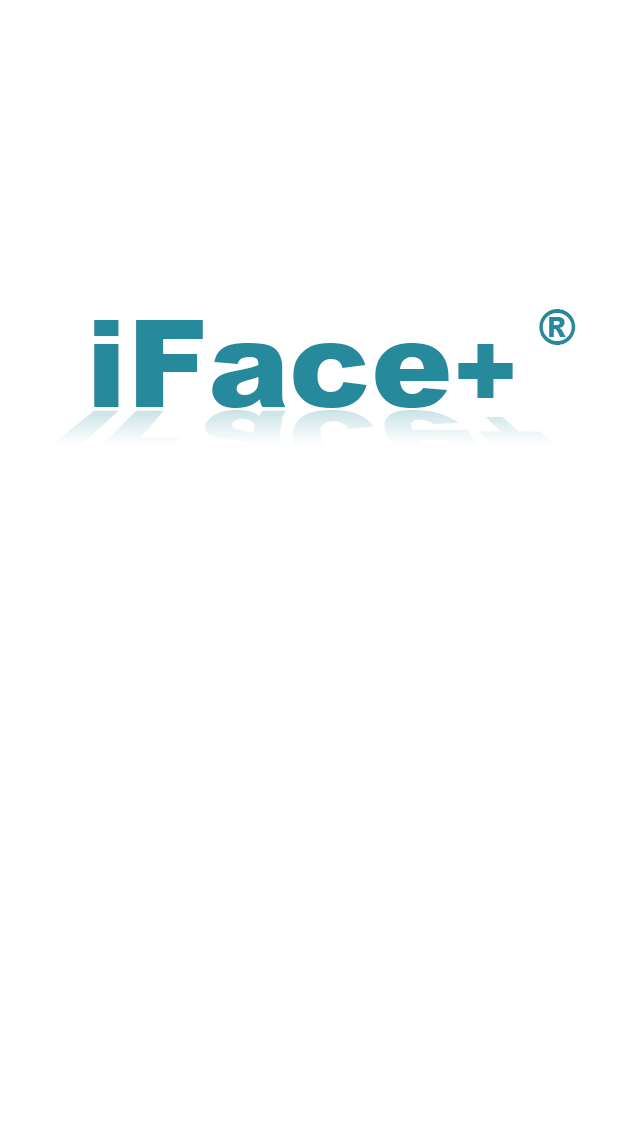
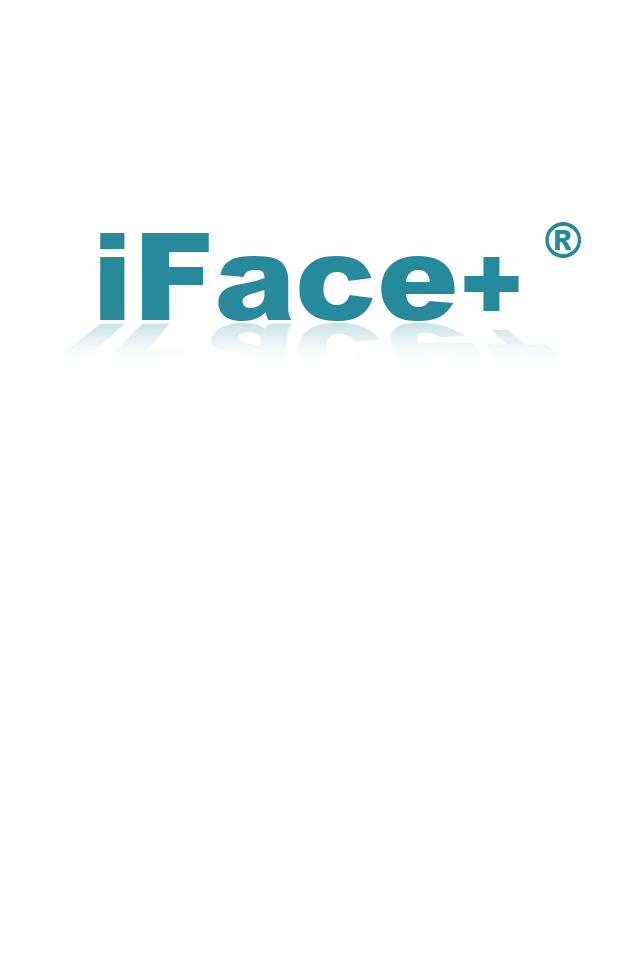
new

Changed region(s): [[0.125, 0.2188, 0.8125, 0.375], [0.8438, 0.2188, 0.9062, 0.3125]]

diff --git a/iFc/Pages/Edit/FSEditorViewController.m b/iFc/Pages/Edit/FSEditorViewController.m
@@ -222,10 +222,10 @@ static const NSTimeInterval kAnimationIntervalTransform = 0.2;
         [interstitial_ loadRequest:request];
         // 请求测试广告。填入模拟器
         // 以及接收测试广告的任何设备的标识符。
-        request.testDevices = [NSArray arrayWithObjects:
-                               @"2DEA15FF-9698-505D-931C-68E2B9A3CEFF",
-                               @"f2751b6ab2923ef5171dfb289dc50c9678520ecd",
-                               nil];
+//        request.testDevices = [NSArray arrayWithObjects:
+//                               @"2DEA15FF-9698-505D-931C-68E2B9A3CEFF",
+//                               @"f2751b6ab2923ef5171dfb289dc50c9678520ecd",
+//                               nil];
     }
 
 
@@ -495,7 +495,7 @@ static const NSTimeInterval kAnimationIntervalTransform = 0.2;
     if(userImageView.image){
         NSArray *excludedActivityTypes = @[UIActivityTypePostToVimeo,UIActivityTypeMessage];
 //        NSString *str = [NSString stringWithFormat:@"%@ http://itunes.apple.com/app/iface+/id904153091?mt=8",NSLocalizedString(@"iFace+ make your life more colorful", nil)];
-        NSString *str = [NSString stringWithFormat:@"%@ http://itunes.apple.com/app/iface+/id904153091?mt=8",NSLocalizedString(@"iFace+ make your life more colorful", nil)];
+        NSString *str = [NSString stringWithFormat:@"%@ https://itunes.apple.com/us/app/iface-place-your-face/id904153091?mt=8",NSLocalizedString(@"iFace make your life more colorful", nil)];
         
         UIActivityViewController *activityView = [[UIActivityViewController alloc] initWithActivityItems:@[str,[self mergeImage]] applicationActivities:nil];
         activityView.excludedActivityTypes = excludedActivityTypes;

diff --git a/iFc/Pages/Base/FSCopyrightViewController.m b/iFc/Pages/Base/FSCopyrightViewController.m
@@ -39,7 +39,7 @@
     titleL.textAlignment = NSTextAlignmentCenter;
     titleL.textColor = [UIColor colorWithWhite:160./255. alpha:1.f];
     titleL.font = [UIFont boldSystemFontOfSize:18.f];
-    titleL.text = NSLocalizedString(@"iFace+", nil);
+    titleL.text = NSLocalizedString(@"iFace", nil);
     titleL.backgroundColor = [UIColor clearColor];
     [self.view addSubview:titleL];
     
@@ -48,7 +48,7 @@
     textView.backgroundColor = [UIColor clearColor];
     textView.textColor = [UIColor colorWithWhite:160./255. alpha:1.f];
     textView.font = [UIFont systemFontOfSize:12.f];
-    textView.text = NSLocalizedString(@"  The App iFace+ is currently only available on iOS Device.We don't assume any responsibility that you use it on other phone models.\n\nWhen downloading and using the GPRS dataflow generated will be charged by your operator.\n\nSome of our images are from the Internet.and the copyright belongs to their original artists.Any unauthorized use will be prosecuted.We have no responsibility for any harm that you may cause to others and yourself.", nil);
+    textView.text = NSLocalizedString(@"  The App iFace is currently only available on iOS Device.We don't assume any responsibility that you use it on other phone models.\n\nWhen downloading and using the GPRS dataflow generated will be charged by your operator.\n\nSome of our images are from the Internet.and the copyright belongs to their original artists.Any unauthorized use will be prosecuted.We have no responsibility for any harm that you may cause to others and yourself.", nil);
     textView.autoresizingMask = UIViewAutoresizingFlexibleWidth;
     [self.view addSubview:textView];
     

diff --git a/iFc/FSMenuViewController.m b/iFc/FSMenuViewController.m
@@ -161,13 +161,13 @@
     id<ISSContainer> container = [ShareSDK container];
     [container setIPadContainerWithView:self.view arrowDirect:UIPopoverArrowDirectionAny];
     
-    NSString *str = [NSString stringWithFormat:@"%@ http://itunes.apple.com/app/iface+/id904153091?mt=8",NSLocalizedString(@"iFace+ make your life more colorful", nil)];
+    NSString *str = [NSString stringWithFormat:@"%@ https://itunes.apple.com/us/app/iface-place-your-face/id904153091?mt=8",NSLocalizedString(@"iFace make your life more colorful", nil)];
     id<ISSContent> publishContent = [ShareSDK content:str
                                        defaultContent:str
                                                 image:nil
-                                                title:@"iFace+"
-                                                  url:@"http://itunes.apple.com/app/iface+/id904153091?mt=8"
-                                          description:@"iFace+"
+                                                title:@"iFace"
+                                                  url:@"https://itunes.apple.com/us/app/iface-place-your-face/id904153091?mt=8"
+                                          description:@"iFace"
                                             mediaType:SSPublishContentMediaTypeText];
     
     [ShareSDK showShareActionSheet:kXHISIPAD?container:nil

diff --git a/iFc/FSViewController.m b/iFc/FSViewController.m
@@ -143,6 +143,7 @@
     return _quaryArr.count;
 }
 
+
 -(CGFloat)tableView:(UITableView *)tableView heightForRowAtIndexPath:(NSIndexPath *)indexPath{
 
     return kXHISIPAD?270.f:180.f;
@@ -155,12 +156,9 @@
 }
 
 -(UIView*)tableView:(UITableView *)tableView viewForHeaderInSection:(NSInteger)section{
-
-    if (floor(NSFoundationVersionNumber) <= NSFoundationVersionNumber_iOS_6_1 ){
-        return [[UIView alloc] init];
-    }else{
-        return nil;
-    }
+    UIView *view = [[UIView alloc] init];
+    view.backgroundColor = [UIColor clearColor];
+    return view;
 }
 
 - (UITableViewCell *)tableView:(UITableView *)tableView cellForRowAtIndexPath:(NSIndexPath *)indexPath {
@@ -206,7 +204,7 @@
     UILabel *label = [[UILabel alloc] initWithFrame:CGRectMake(0, 110*scale, 250*scale, 40*scale)];
     label.font = [UIFont fontWithName:@"Avenir-LightOblique" size:16.f*scale];
     label.textAlignment = NSTextAlignmentCenter;
-    label.textColor = [UIColor grayColor];
+    label.textColor = [UIColor blackColor];
     label.backgroundColor = [UIColor clearColor];
     label.text = _quaryArr[indexPath.row];
 

diff --git a/iFc/FSAppDelegate.m b/iFc/FSAppDelegate.m
@@ -62,7 +62,6 @@
     
     //revmob ad
     [RevMobAds startSessionWithAppID:@"53ed97374ee531d05984fb4e"];
-    [RevMobAds session].testingMode = RevMobAdsTestingModeWithAds;
     [RevMobAds session].userInterests = @[@"games", @"mobile", @"app", @"photo"];
     [RevMobAds session].userAgeRangeMax = 30;
     [RevMobAds session].userAgeRangeMin = 10;
@@ -150,7 +149,6 @@
     // AdMob specific
     [CJPAdController sharedInstance].adMobUnitID = MY_BANNER_UNIT_ID;
     [CJPAdController sharedInstance].useAdMobSmartSize = YES;
-    [CJPAdController sharedInstance].testDeviceIDs = @[@"2DEA15FF-9698-505D-931C-68E2B9A3CEFF",@"f2751b6ab2923ef5171dfb289dc50c9678520ecd"];
     [[CJPAdController sharedInstance] startWithViewController:drawerController];
     self.window = [[UIWindow alloc] initWithFrame:[[UIScreen mainScreen] bounds]];
     [self.window setRootViewController:[CJPAdController sharedInstance]];

diff --git a/iFc/Pages/PreviewList/InstagramCollectionViewController.m b/iFc/Pages/PreviewList/InstagramCollectionViewController.m
@@ -211,7 +211,7 @@ static NSString * const kXHInstagramFooter = @"InstagramFooter";
     }else if(saveCount == 0){
         // 用户选择了不再提示打分
     }else{
-        UIAlertView *alertView = [[UIAlertView alloc] initWithTitle:NSLocalizedString(@"Enjoying iFace+?", nil)
+        UIAlertView *alertView = [[UIAlertView alloc] initWithTitle:NSLocalizedString(@"Enjoying iFace?", nil)
                                                             message:NSLocalizedString(@"If so, say it with stars on the App Store",nil)
                                                            delegate:self
                                                   cancelButtonTitle:NSLocalizedString(@"Remind me later", nil)

diff --git a/iFc/FSConfig.m b/iFc/FSConfig.m
@@ -54,7 +54,7 @@
 
 +(UIColor *)mainBgColor
 {
-    return [UIColor colorWithRed:231./255. green:235./255. blue:238./255. alpha:1];
+    return [UIColor colorWithRed:208./255. green:217./255. blue:226./255. alpha:1];
 }
 
 +(UIColor *)mainCellColor
